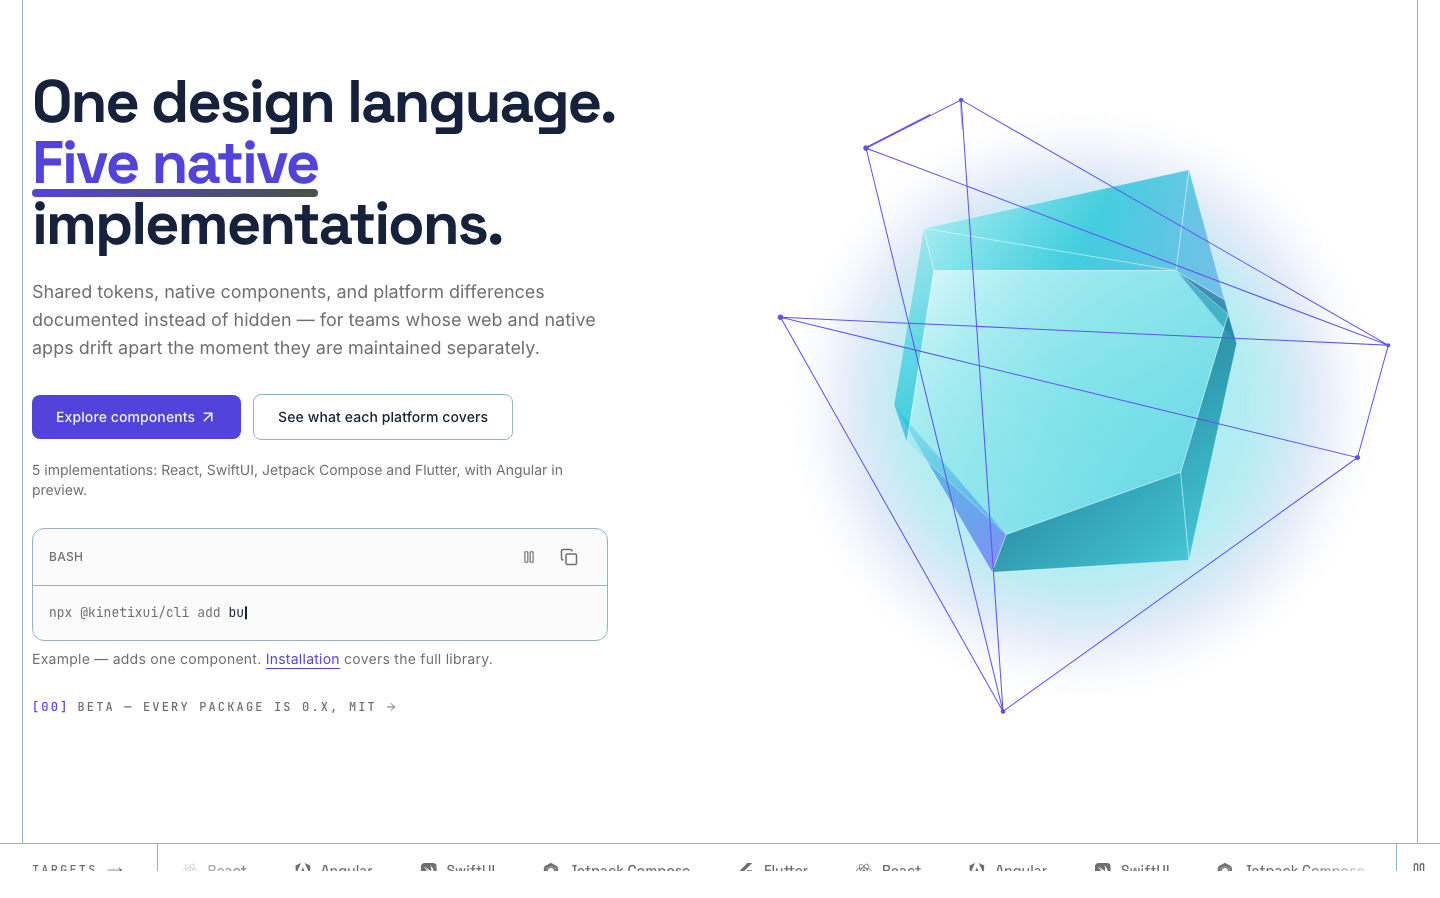
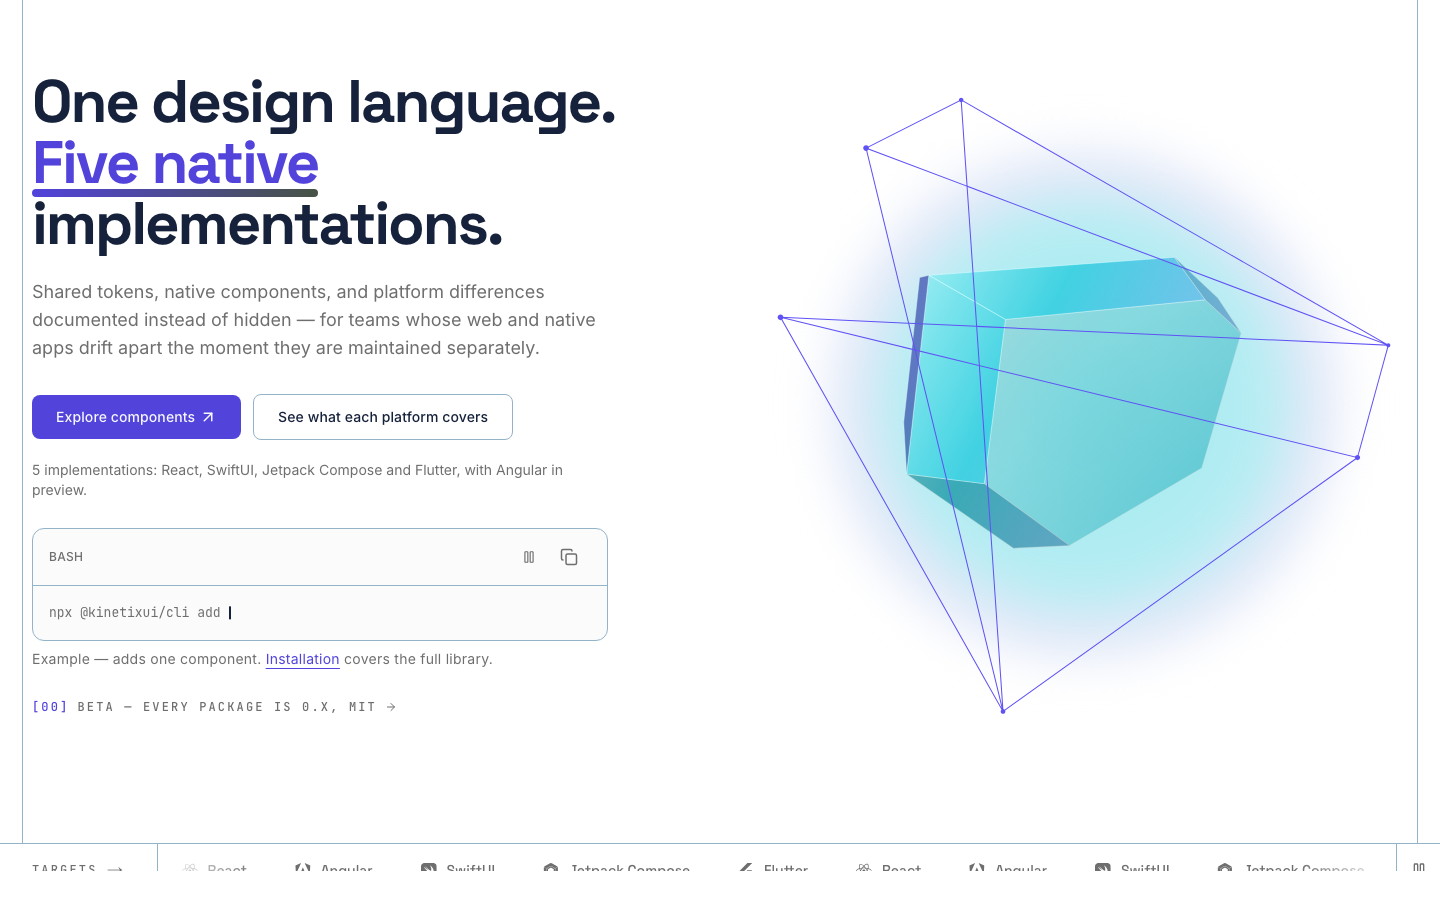
Rotate a closed faceted solid inside a stationary hero wireframe

Changed region(s): [[0.625, 0.1871, 0.875, 0.6548]]

diff --git a/apps/web/src/components/hero-polygon.tsx b/apps/web/src/components/hero-polygon.tsx
@@ -3,47 +3,41 @@
 import { useEffect, useId, useRef, useState, type PointerEvent, type KeyboardEvent } from "react";
 import geometry from "./hero-polygon-geometry.json";
 
-// The source faces share vertices but receive distinct lighting materials.
-// Cyan carries the illustration; indigo appears in the shaded return faces.
-const facetMaterials: Record<string, string> = {
-  "cls-10": "glass", "cls-8": "light", "cls-3": "light",
-  "cls-7": "shadow", "cls-1": "shadow", "cls-2": "edge",
-  "cls-4": "edge", "cls-5": "light", "cls-6": "shadow",
-};
-
-// The central face is the front plane. The surrounding faces taper back
-// to a second ring, with shared vertices so their edges stay joined.
-const faces = geometry.facets.filter(face => face.type === "polygon");
-const vertices = (data: string) => {
-  const values = data.split(/\s+/).map(Number);
-  return values.flatMap((x, i) => i % 2 ? [] : [[x, values[i + 1]]]);
-};
-const front = new Set(vertices(faces[0].data).map(([x, y]) => Math.round(x) + "," + Math.round(y)));
-const mesh = faces.map(face => ({
-  tone: face.tone,
-  points: vertices(face.data).map(([x, y]) => ({
-    x: x - 300, y: y - 285,
-    z: front.has(Math.round(x) + "," + Math.round(y)) ? 64 : -56,
-  })),
-}));
+// Build a closed, bevelled prism from the outline of the supplied central face.
+type Point = [number, number, number];
+const outline = geometry.facets[0].data.split(/\s+/).map(Number).slice(0, -2);
+function ring(scale: number, depth: number): Point[] {
+  return outline.flatMap((x, i) => i % 2 ? [] : [[(x - 300) * scale, (outline[i + 1] - 285) * scale, depth] as Point]);
+}
+const front = ring(.88, 110), rim = ring(1.15, 10), back = ring(.94, -105);
+function sides(a: Point[], b: Point[], material: string) {
+  return a.map((point, i) => {
+    const j = (i + 1) % a.length;
+    return { points: [point, b[i], b[j], a[j]], material };
+  });
+}
+const mesh = [
+  { points: front, material: "glass" }, ...sides(front, rim, "light"),
+  ...sides(rim, back, "shadow"), { points: [...back].reverse(), material: "edge" },
+];
 
 function project(pitch: number, yaw: number) {
   const p = pitch * Math.PI / 180, r = yaw * Math.PI / 180;
-  return mesh.map(face => {
-    let depth = 0;
-    const points = face.points.map(({ x, y, z }) => {
+  return mesh.flatMap((face, index) => {
+    const points = face.points.map(([x, y, z]) => {
       const rz = z * Math.cos(r) - x * Math.sin(r);
-      const dz = rz * Math.cos(p) + y * Math.sin(p);
-      depth += dz;
-      const scale = 960 / (960 - dz);
-      return [300 + (x * Math.cos(r) + z * Math.sin(r)) * scale,
-        285 + (y * Math.cos(p) - rz * Math.sin(p)) * scale].join(",");
+      return [x * Math.cos(r) + z * Math.sin(r), y * Math.cos(p) - rz * Math.sin(p),
+        rz * Math.cos(p) + y * Math.sin(p)];
     });
-    return { tone: face.tone, points: points.join(" "), depth: depth / points.length };
-  }).sort((a, b) => a.depth - b.depth);
+    const [a, b, c] = points;
+    const u = b.map((n,i) => n-a[i]), v = c.map((n,i) => n-a[i]);
+    const nx = u[1]*v[2]-u[2]*v[1], ny = u[2]*v[0]-u[0]*v[2], nz = u[0]*v[1]-u[1]*v[0];
+    if (nz*(960-a[2]) - nx*a[0] - ny*a[1] <= 0) return [];
+    const light = (-.4*nx - .55*ny + .7*nz) / Math.hypot(nx,ny,nz);
+    return [{ index, material: face.material, brightness: .78 + .32 * light,
+      points: points.map(([x,y,z]) => [300+x*960/(960-z),285+y*960/(960-z)].join(",")).join(" ") }];
+  });
 }
-
-const clamp = (value: number) => Math.max(-28, Math.min(28, value));
 
 /** Owner-supplied 189 [Converted].svg; its coordinates and outlined cage stay intact. */
 export function HeroPolygon() {
@@ -73,8 +67,22 @@ export function HeroPolygon() {
   }, []);
 
   const [pose, setPose] = useState(rotation.current);
+  const [spin, setSpin] = useState(0);
+  useEffect(() => {
+    if (!active || paused) return;
+    let frame: number, last = performance.now();
+    function tick(now: number) {
+      if (now - last >= 32) {
+        if (!drag.current) setSpin(angle => (angle + Math.min(now - last, 80) * .012) % 360);
+        last = now;
+      }
+      frame = requestAnimationFrame(tick);
+    }
+    frame = requestAnimationFrame(tick);
+    return () => cancelAnimationFrame(frame);
+  }, [active, paused]);
   const rotate = (pitch: number, yaw: number) => {
-    rotation.current = { pitch: clamp(pitch), yaw: clamp(yaw) };
+    rotation.current = { pitch: pitch % 360, yaw: yaw % 360 };
     setPose(rotation.current);
     shape.current?.style.setProperty("--polygon-pitch", `${rotation.current.pitch}deg`);
     shape.current?.style.setProperty("--polygon-yaw", `${rotation.current.yaw}deg`);
@@ -89,7 +97,7 @@ export function HeroPolygon() {
   const moveDrag = (event: PointerEvent<HTMLDivElement>) => {
     const start = drag.current;
     if (!start || start.pointer !== event.pointerId) return;
-    rotate(start.pitch - (event.clientY - start.y) * .14, start.yaw + (event.clientX - start.x) * .14);
+    rotate(start.pitch - (event.clientY - start.y) * .65, start.yaw + (event.clientX - start.x) * .65);
   };
   const endDrag = (event: PointerEvent<HTMLDivElement>) => {
     if (drag.current?.pointer !== event.pointerId) return;
@@ -104,7 +112,7 @@ export function HeroPolygon() {
       case "ArrowRight": rotate(pitch, yaw + 5); break;
       case "ArrowUp": rotate(pitch - 5, yaw); break;
       case "ArrowDown": rotate(pitch + 5, yaw); break;
-      case "Home": rotate(0, 0); break;
+      case "Home": setSpin(0); rotate(0, 0); break;
       case " ": setPaused(was => !was); break;
       case "Escape": setPaused(true); break;
       default: return;
@@ -144,8 +152,8 @@ export function HeroPolygon() {
               </defs>
               <g>
                 <g className="kx-polygon-facets">
-                  {project(pose.pitch, pose.yaw).map(face => (
-                    <polygon key={face.tone} points={face.points} fill={`url(#${id}-${facetMaterials[face.tone]})`}
+                  {project(pose.pitch - 15, pose.yaw + 24 + spin).map(face => (
+                    <polygon key={face.index} data-face={face.index} style={{ filter: `brightness(${face.brightness})` }} points={face.points} fill={`url(#${id}-${face.material})`}
                       stroke="rgba(235,255,255,.55)" strokeWidth=".75" strokeLinejoin="round" />
                   ))}
                 </g>

diff --git a/apps/web/src/app/brand-hero.css b/apps/web/src/app/brand-hero.css
@@ -12,16 +12,9 @@
 .kx-hero-polygon-art { display: block; width: 100%; height: auto; overflow: visible; }
 .kx-polygon-seam { fill: #f6f7fc; opacity: .38; }
 .kx-polygon-wireframe { fill: hsl(var(--brand)); }
-.kx-polygon-idle { transform-origin: 50% 50%; animation: kx-polygon-suspend 24s ease-in-out infinite; }
-.kx-polygon-signals { stroke: hsl(var(--brand)); stroke-dasharray: .045 .955; animation: kx-polygon-travel 14s linear infinite; }
-.kx-polygon-signals path:nth-child(2) { opacity: .45; }
-.kx-hero-polygon[data-running="false"] *, .kx-polygon-interaction[data-dragging="true"] * { animation-play-state: paused !important; }
+.kx-polygon-wireframe, .kx-polygon-signals { pointer-events: none; }
+.kx-polygon-signals { display: none; }
 .dark .kx-polygon-aura { background: radial-gradient(circle closest-side, #28c7d95e 0%, #6054f442 56%, #6054f41c 80%, #6054f400 100%); }
-@keyframes kx-polygon-travel { from { stroke-dashoffset: 1; } to { stroke-dashoffset: 0; } }
-@keyframes kx-polygon-suspend {
-  0%, 100% { transform: translate3d(0, 0, 0) rotateX(-2deg) rotateY(-5deg); }
-  50% { transform: translate3d(0, -7px, 0) rotateX(2deg) rotateY(5deg); }
-}
 @media (min-width: 64rem) {
   .kx-brand-hero-grid { grid-template-columns: minmax(0, 1fr) minmax(0, 1fr); gap: 3rem; align-items: center; }
   .kx-hero-polygon { margin-inline-end: -1rem; }
